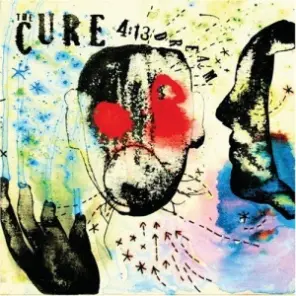
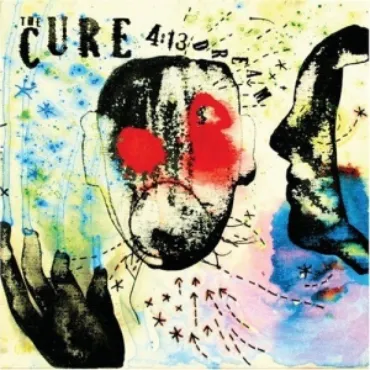
a

diff --git a/albums.html b/albums.html
@@ -81,7 +81,15 @@
         </div>
       </div>
       <div class="popular">
-        <img src="img/kissme.jpg" alt="Kiss Me" />
+        <picture
+          ><source
+            media="(min-width: 1400px)"
+            srcset="img/kissme1400px.webp" />
+          <source
+            media="(min-width: 768px)"
+            srcset="img/kissme768px.webp" />
+          <img src="img/kissme370px.webp" alt="Kiss Me Kiss Me Kiss Me"
+        /></picture>
         <div class="btn4">Kiss Me Kiss Me Kiss Me</div>
         <div class="kissmeinfo hidden">
           <p>
@@ -107,12 +115,8 @@
       </div>
       <div class="popular">
         <picture
-          ><source
-            media="(min-width: 1400px)"
-            srcset="img/faith1400px.webp" />
-          <source
-            media="(min-width: 768px)"
-            srcset="img/faith768px.webp" />
+          ><source media="(min-width: 1400px)" srcset="img/faith1400px.webp" />
+          <source media="(min-width: 768px)" srcset="img/faith768px.webp" />
           <img src="img/faith370px.webp" alt="Faith"
         /></picture>
         <div class="btn6">Faith</div>
@@ -125,12 +129,12 @@
         </div>
       </div>
       <div class="popular">
-        <div class="btn7">4:13 Dream</div>
         <picture
-          ><source media="(min-width: 1400px)" srcset="img/logo1400px.webp" />
-          <source media="(min-width: 768px)" srcset="img/logo768px.webp" />
-          <img src="img/413dream370px.webp" alt="4:13 Dream"
+          ><source media="(min-width: 1400px)" srcset="img/413dream1400px.webp" />
+          <source media="(min-width: 768px)" srcset="img/413dream768px.webp" />
+          <img src="img/413dream370px.webp" alt="Faith"
         /></picture>
+        <div class="btn7">4:13 Dream</div>
         <div class="dreaminfo hidden">
           <p>
             Lorem ipsum dolor sit amet consectetur adipisicing elit. Culpa natus
